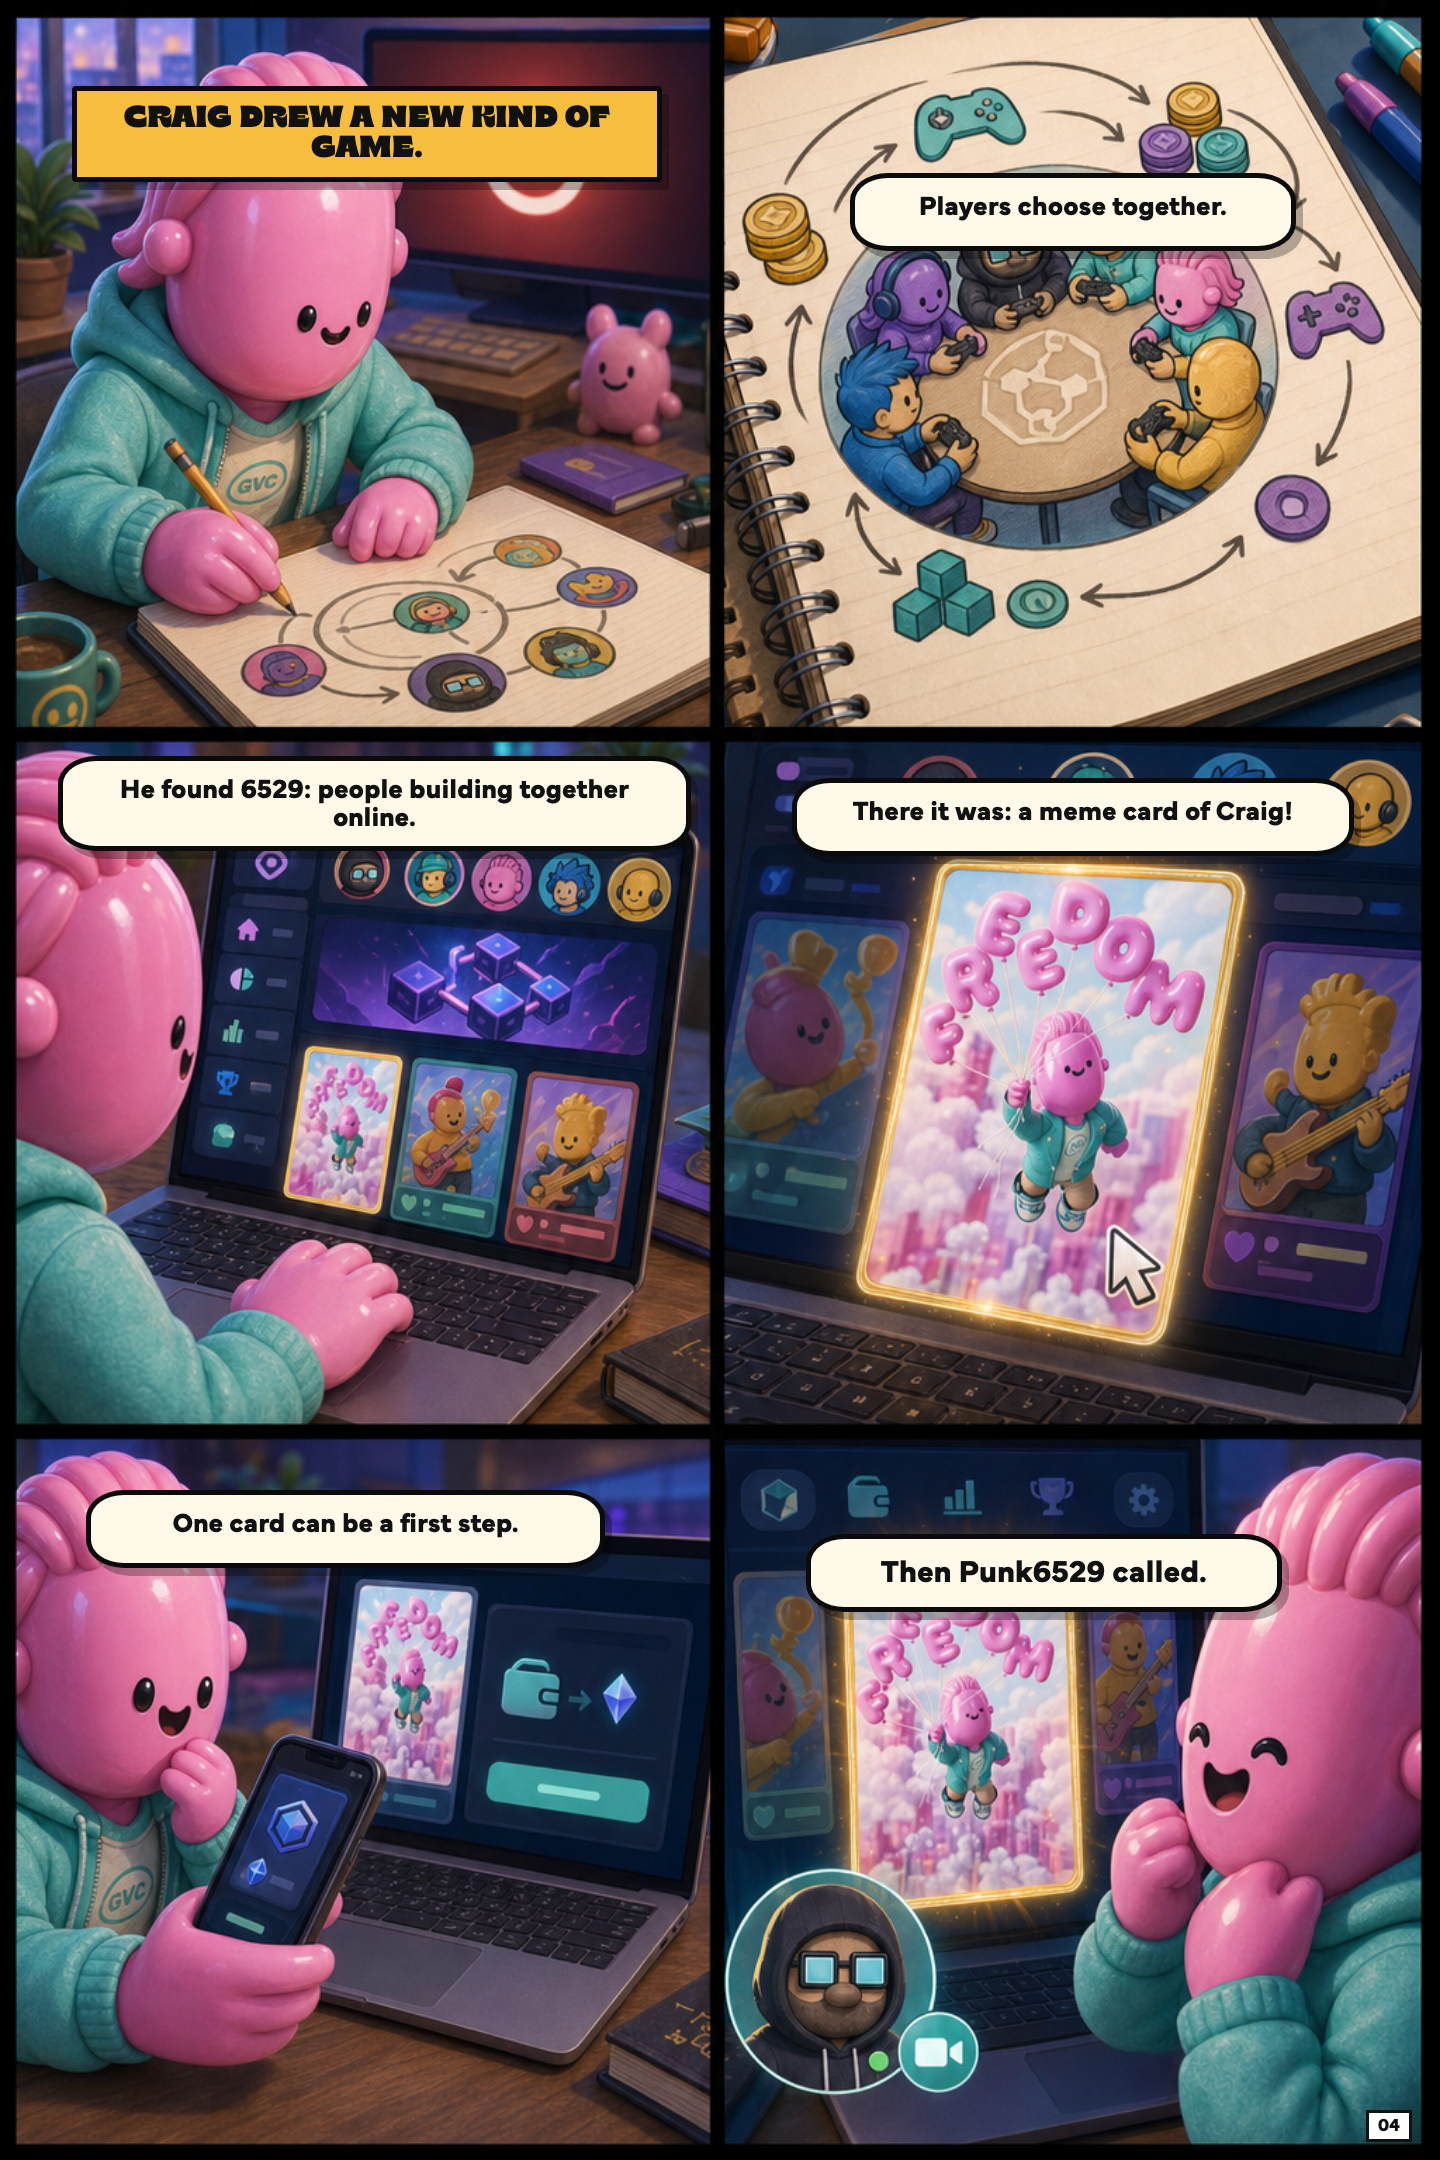
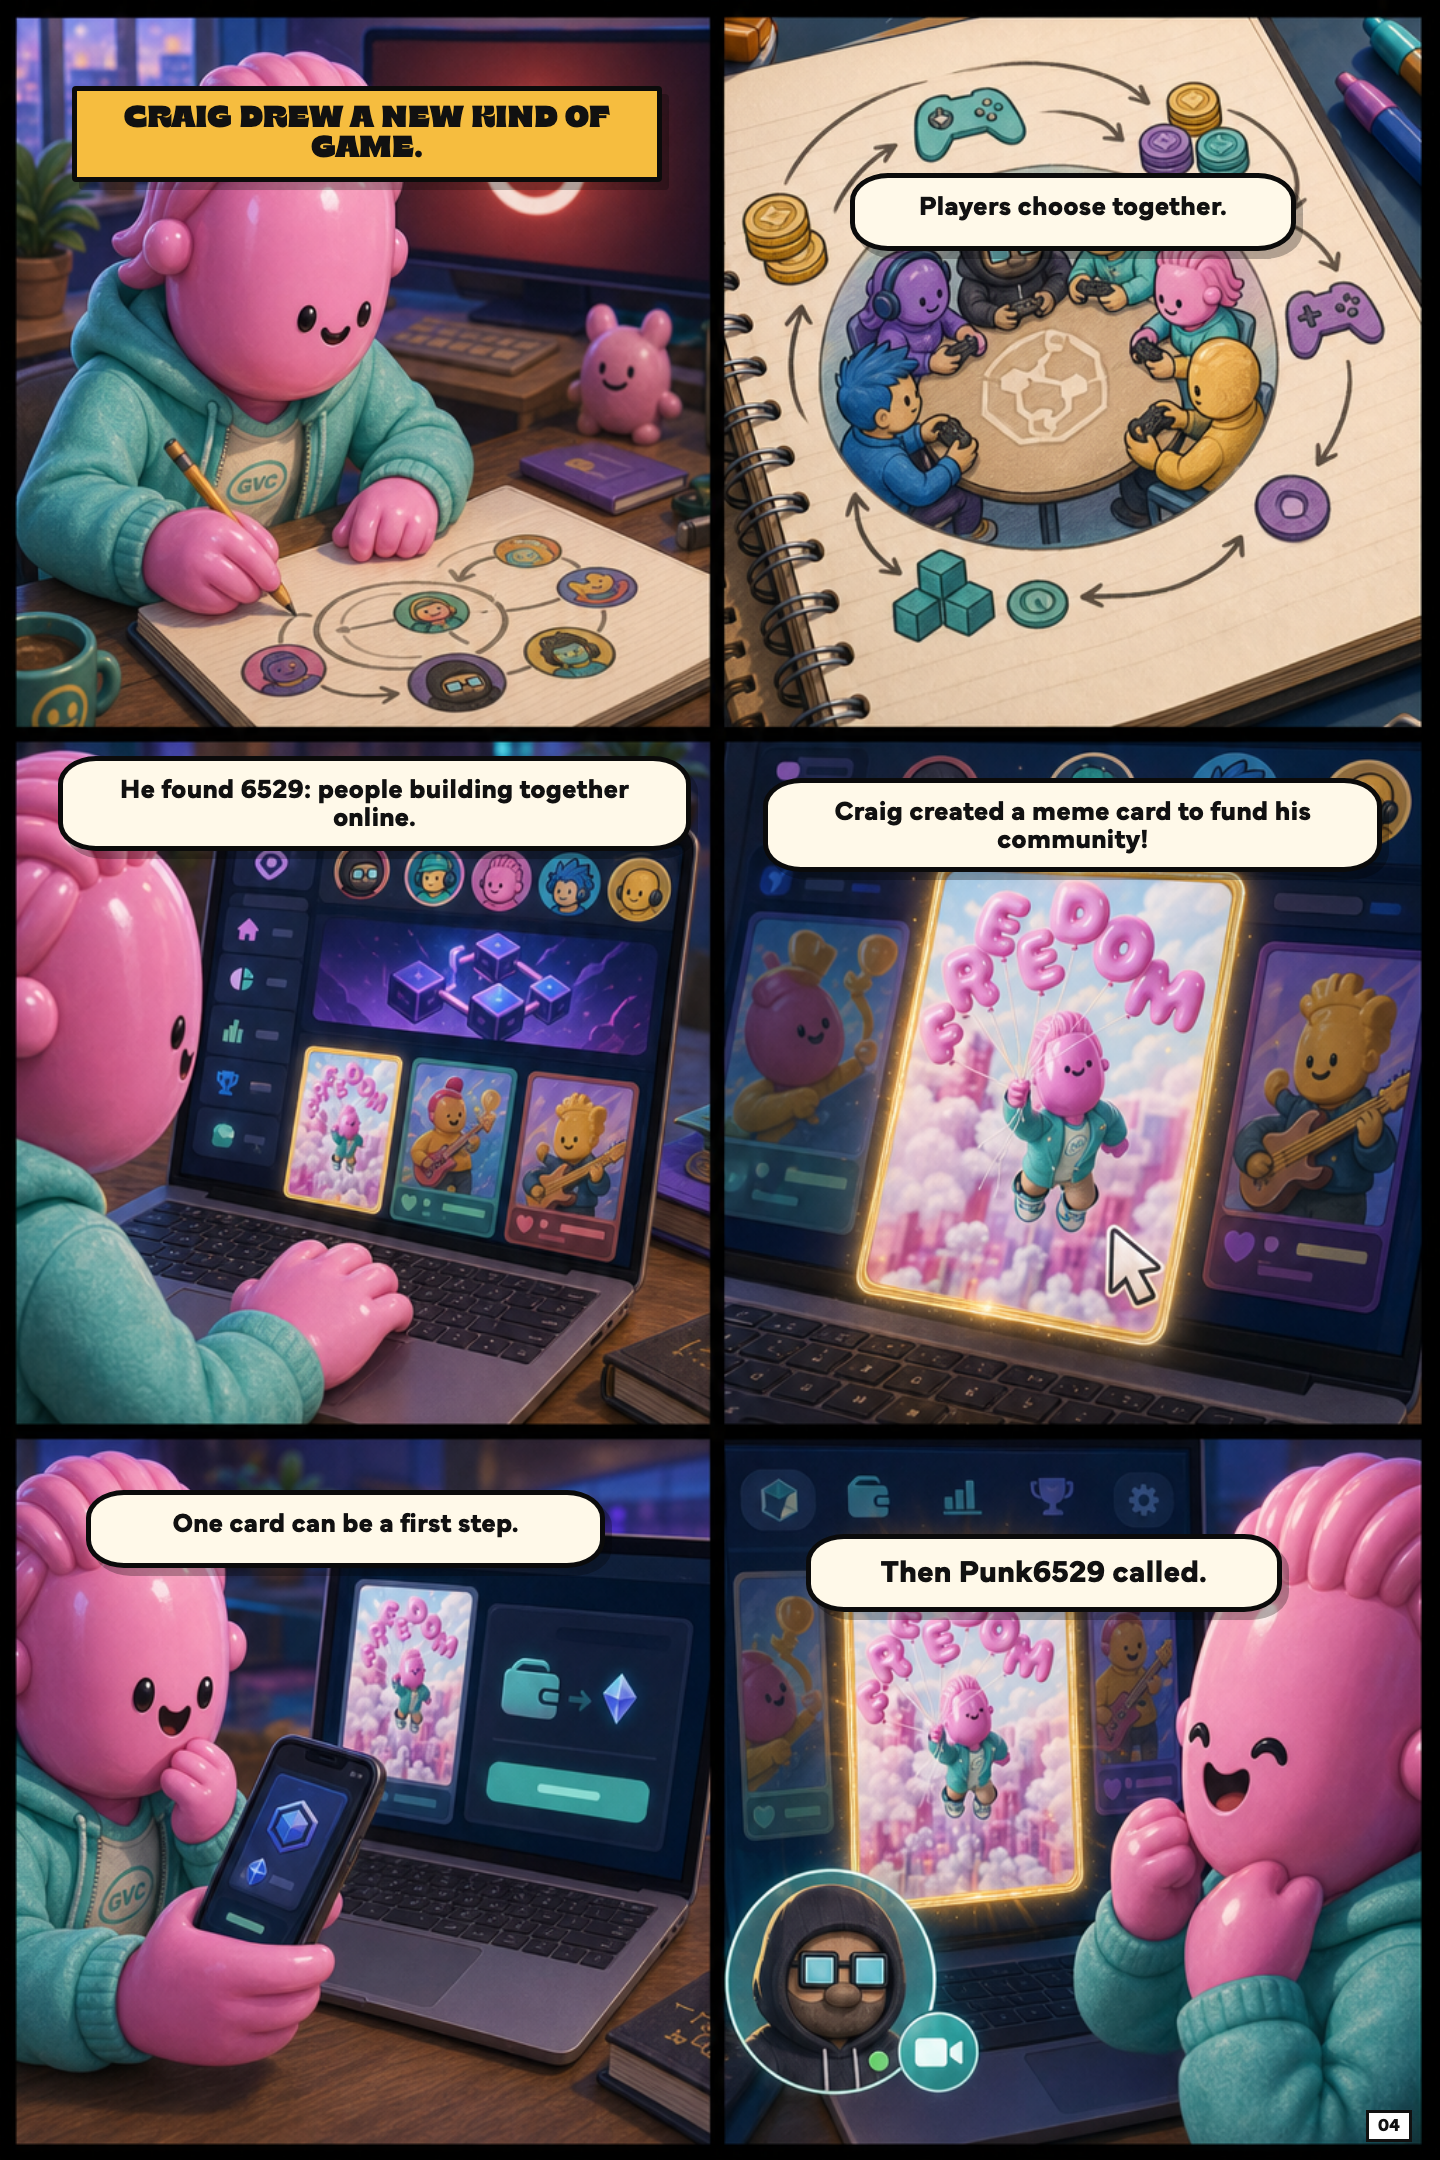
Update page 4 meme card caption

Changed region(s): [[0.5312, 0.3412, 0.9688, 0.4343]]

diff --git a/output/craig-self-custody-comic/comic.html b/output/craig-self-custody-comic/comic.html
@@ -236,7 +236,7 @@
           ["caption", "Craig drew a new kind of game.", 5, 4, 41],
           ["bubble small", "Players choose together.", 59, 8, 31],
           ["bubble small", "He found 6529: people building together online.", 4, 35, 44],
-          ["bubble small", "There it was: a meme card of Craig!", 55, 36, 39],
+          ["bubble small", "Craig created a meme card to fund his community!", 53, 36, 43],
           ["bubble small", "One card can be a first step.", 6, 69, 36],
           ["bubble", "Then Punk6529 called.", 56, 71, 33],
         ],